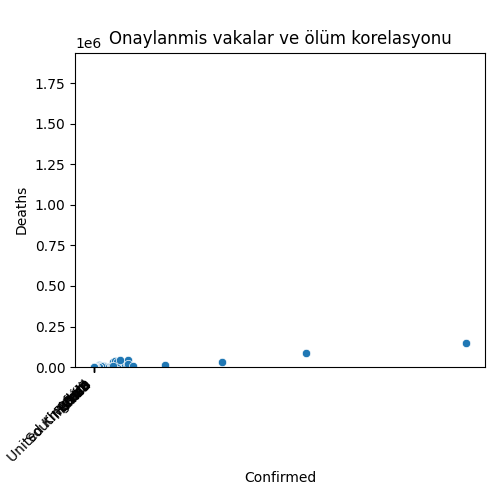
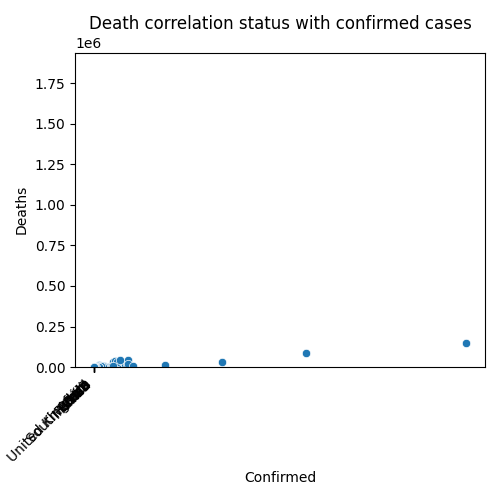
Readme edit

Changed region(s): [[0.18, 0.03, 0.96, 0.09]]

diff --git a/DataAnalysis.py b/DataAnalysis.py
@@ -79,7 +79,7 @@ chartdrawer.plot_and_analyze_correlation(
     dataFrame,
     'Confirmed',
     'Deaths',
-    'Onaylanmis vakalar ve ölüm korelasyonu',
+    'Death correlation status with confirmed cases',
     'Confirmed',
     'Deaths',
     'Confirmed_Death_Correlation')
@@ -88,7 +88,7 @@ chartdrawer.plot_and_analyze_correlation(
     dataFrame,
     'Confirmed',
     'Recovered',
-    'Onaylanmis vakalar ve iyileşme korelasyonu',
+    'Recovered correlation status with confirmed cases',
     'Confirmed',
     'Recovered',
     'Confirmed_Recovered_Correlation')
@@ -102,10 +102,10 @@ chartdrawer.plot_bar_chart(
     top10_recovered_100_cases,
     'Country/Region',
     'Recovered / 100 Cases',
-    'Number of recovered per 100 cases',
+    'Recovery status per 100 cases',
     'Countries',
     'Recovered/100 Cases',
-    'Number of recovered per 100 cases'
+    'Recovery status per 100 cases'
 )
 sorted_data_deaths_100cases = dataFrame.sort_values(by='Deaths / 100 Cases',ascending=False) #azalan siralama yapilir
 top10_deaths_100_cases=sorted_data_deaths_100cases.head(10)
@@ -114,8 +114,8 @@ chartdrawer.plot_bar_chart(
     top10_deaths_100_cases,
     'Country/Region',
     'Deaths / 100 Cases',
-    'Number of deaths per 100 cases',
+    'Deaths status per 100 cases',
     'Countries',
     'Recovered/100 Cases',
-    'Number of deaths per 100 cases'
+    'Deaths status per 100 cases'
 )

diff --git a/README.md b/README.md
@@ -1,6 +1,29 @@
 # Covid-19-Data-Analyst
 https://www.kaggle.com/datasets/imdevskp/corona-virus-report
 
-## Top 10 Countries with the Highest Deaths per 100 Cases
+## Percentage Distribution of Confirmed Cases by Country
+![Top10Countries_Confirmed](Graphic_Analysis_Results/Top10_Countries_Confirmed_Pie_Chart.png)
 
-![Deaths per 100 Cases](Graphic_Analysis_Results/Top10_Countries_Confirmed_Pie_Chart.png)
+## Top 10 countries with the highest confirmed cases
+![Top10Countries_Confirmed](Graphic_Analysis_Results/Top10_Countries_Confirmed.png)
+
+## Top 10 countries with the highest death cases
+![Top10_Countries_Deaths](Graphic_Analysis_Results/Top10_Countries_Deaths.png)
+
+## Top 10 countries with the highest recovered cases
+![Top10_Countries_Recovered](Graphic_Analysis_Results/Top10_Countries_Recovered.png)
+
+## Death correlation status with confirmed cases
+![Death_correlation](Graphic_Analysis_Results/Confirmed_Death_Correlation.png)
+
+## Recovered correlation status with confirmed cases
+![Recovered_correlation](Graphic_Analysis_Results/TConfirmed_Recovered_Correlation.png)
+
+## Recovery status per 100 cases
+![recovery_status_100Cases](Graphic_Analysis_Results/Recovery status per 100 cases.png)
+
+## Deaths status per 100 cases
+![death_status_100Cases](Graphic_Analysis_Results/Deaths status per 100 cases.png)
+
+
+
